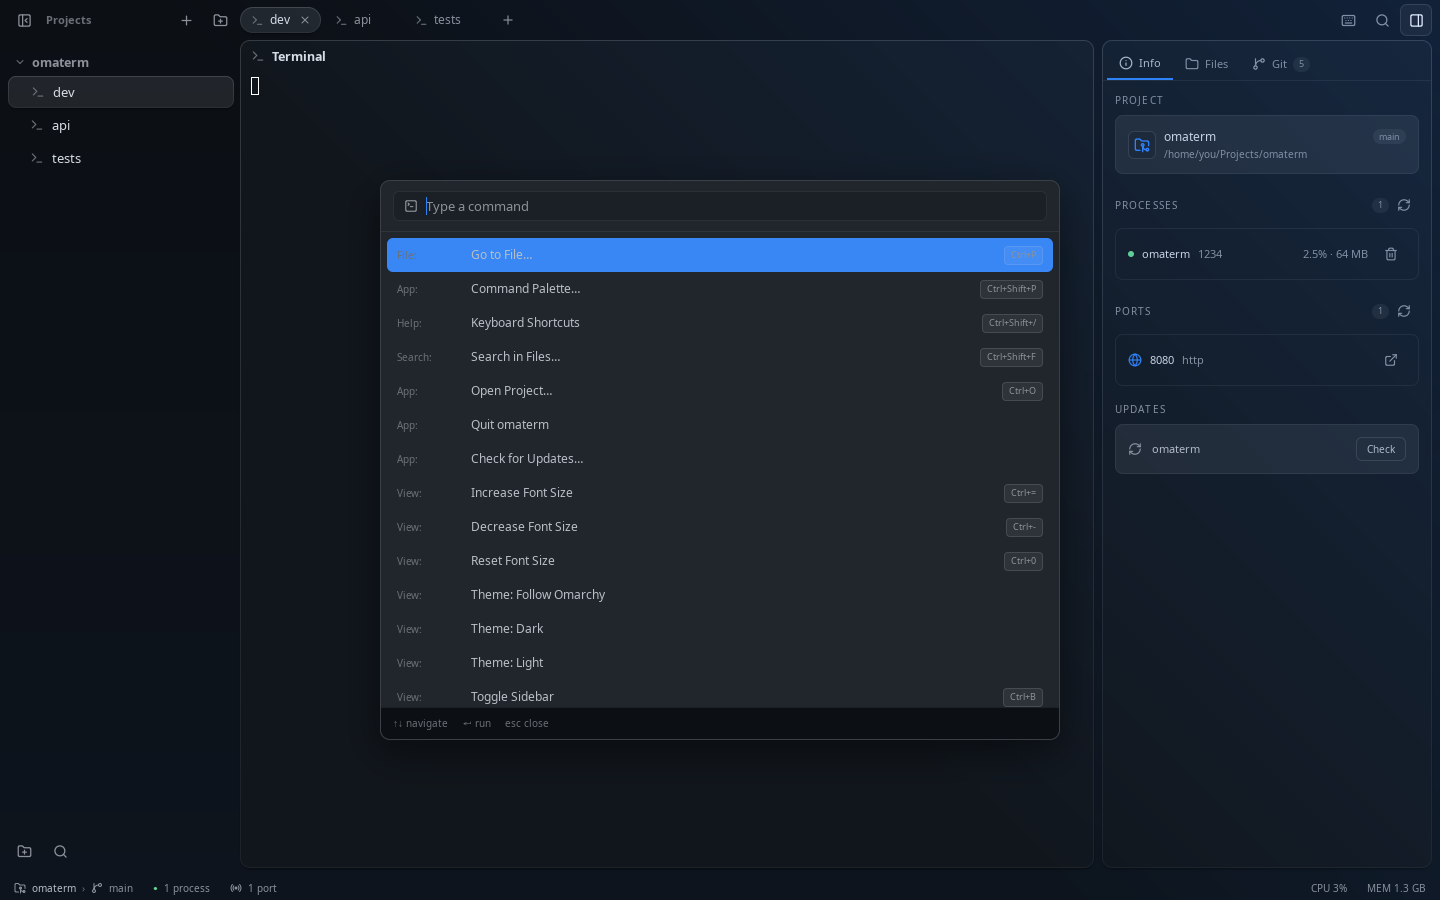
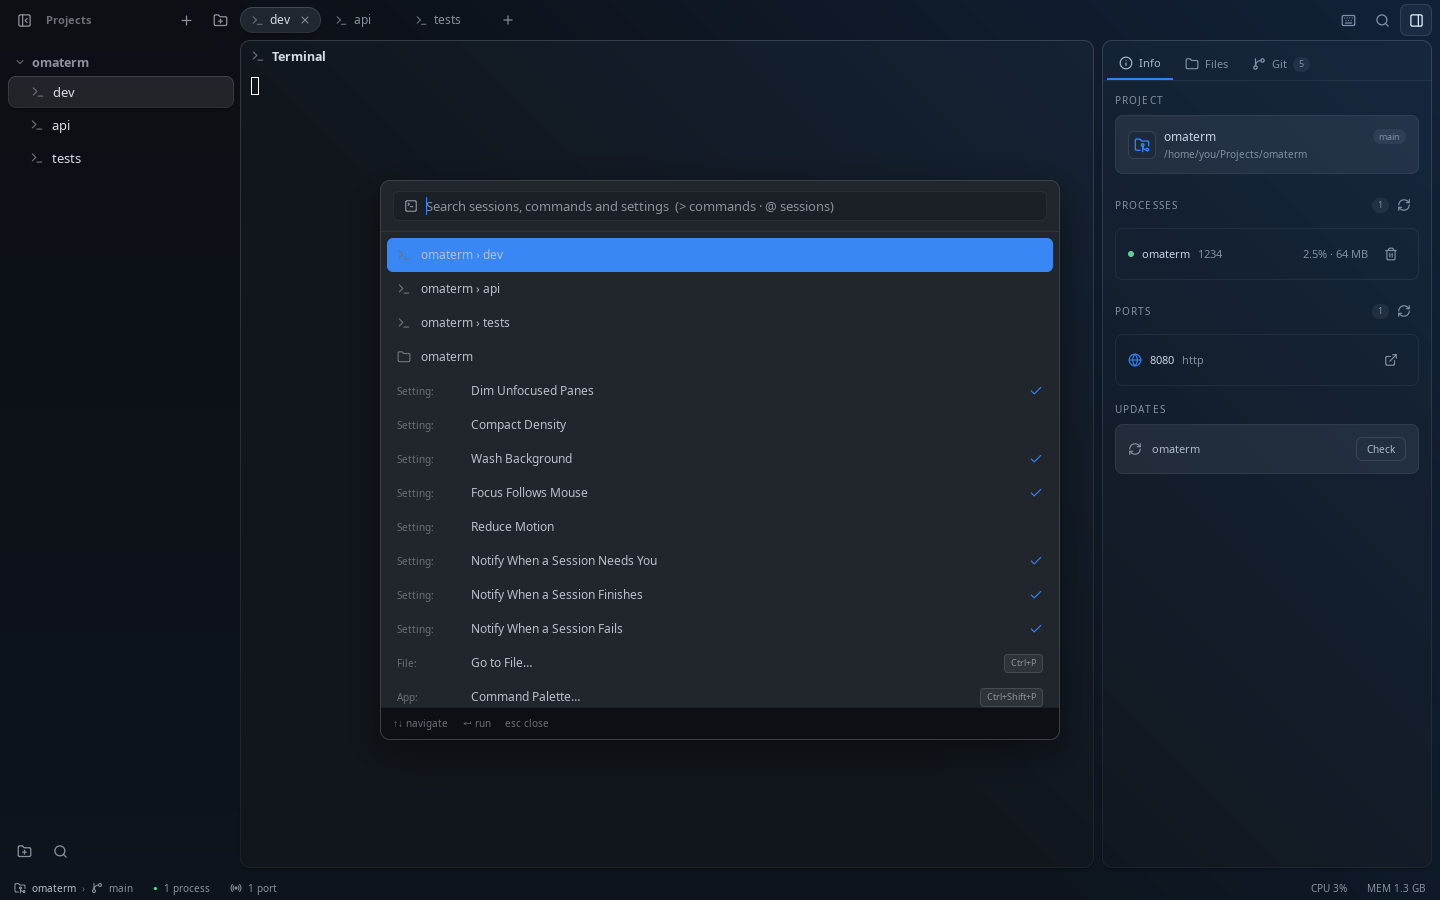
Find sessions and settings in the command palette, and use Omarchy's font
Ctrl+Shift+P now finds sessions across projects, with the ones needing
you first, projects, and settings to toggle (dim unfocused panes, compact
density, the wash, focus following the mouse, reduced motion and the
notifications), besides commands. "> " keeps to commands, "@" to
sessions. Terminals use the font Omarchy's font picker sets for Ghostty.

diff --git a/overlays.go b/overlays.go
@@ -2,6 +2,7 @@ package main
 
 import (
 	"context"
+	"slices"
 	"sort"
 	"strings"
 
@@ -9,6 +10,7 @@ import (
 	"github.com/egoist/mygo/ui"
 	"github.com/egoist/mygo/ui/editor"
 
+	"omaterm/internal/session"
 	"omaterm/service"
 )
 
@@ -461,25 +463,152 @@ type paletteEntry struct {
 	Command
 	Score   float64
 	Indices []int
+	// Info is a session entry's status, shown as its icon; On a setting's
+	// state, shown as a check.
+	Info    *session.Info
+	Setting bool
+	On      bool
 }
 
-func (a *appState) paletteCommands() []paletteEntry {
-	titles := make([]string, len(commandRegistry))
-	for i, cmd := range commandRegistry {
-		titles[i] = cmd.Category + ": " + cmd.Title
+// paletteSources are what the palette finds besides commands: sessions of
+// every project (those needing you first), projects, and settings.
+func (a *appState) paletteSources() []paletteEntry {
+	var out []paletteEntry
+	type sess struct {
+		e paletteEntry
+		u int
 	}
-	matches := service.FuzzyFilter(titles, a.cmdQuery, 100)
-	out := make([]paletteEntry, 0, len(matches))
-	for _, m := range matches {
-		// Find the command by title index.
-		for i, cmd := range commandRegistry {
-			if titles[i] == m.Value {
-				out = append(out, paletteEntry{Command: cmd, Score: m.Score, Indices: m.Indices})
-				break
+	var ss []sess
+	for pi, p := range a.projects {
+		for _, t := range a.projectTabs(p.ID) {
+			if t.Kind != tabTerminal {
+				continue
 			}
+			info, _ := a.sessionInfo(t)
+			pi, id := pi, t.ID
+			e := paletteEntry{Command: Command{ID: "session:" + t.ID, Category: "Session",
+				Title: p.Name + " › " + a.sessionName(t, info),
+				Run:   func(a *appState, c *ui.Context) { a.focusSession(pi, id) }}}
+			e.Info = &info
+			u := 0
+			switch statusState(info) {
+			case iconWaiting:
+				u = 3
+			case iconFailed:
+				u = 2
+			case iconDone:
+				u = 1
+			}
+			ss = append(ss, sess{e, u})
 		}
 	}
+	slices.SortStableFunc(ss, func(x, y sess) int { return y.u - x.u })
+	for _, s := range ss {
+		out = append(out, s.e)
+	}
+	for pi, p := range a.projects {
+		pi := pi
+		out = append(out, paletteEntry{Command: Command{ID: "project:" + p.ID, Category: "Project", Title: p.Name,
+			Run: func(a *appState, c *ui.Context) { a.switchProject(pi) }}})
+	}
+	toggle := func(id, title string, on bool, set func(*Settings)) {
+		out = append(out, paletteEntry{Setting: true, On: on, Command: Command{ID: "setting:" + id, Category: "Setting", Title: title,
+			Run: func(a *appState, c *ui.Context) { set(&a.settings); a.applySettings() }}})
+	}
+	st := a.settings
+	toggle("dim", "Dim Unfocused Panes", st.DimUnfocused, func(s *Settings) { s.DimUnfocused = !s.DimUnfocused })
+	toggle("compact", "Compact Density", st.Density == "compact", func(s *Settings) {
+		s.Density = map[bool]string{true: "comfortable", false: "compact"}[s.Density == "compact"]
+	})
+	toggle("wash", "Wash Background", st.Background != "plain", func(s *Settings) {
+		s.Background = map[bool]string{true: "plain", false: "wash"}[s.Background != "plain"]
+	})
+	toggle("focusmouse", "Focus Follows Mouse", st.FocusFollowsMouse, func(s *Settings) { s.FocusFollowsMouse = !s.FocusFollowsMouse })
+	toggle("motion", "Reduce Motion", st.ReduceMotion, func(s *Settings) { s.ReduceMotion = !s.ReduceMotion })
+	toggle("notify-waiting", "Notify When a Session Needs You", st.Notify.Waiting, func(s *Settings) { s.Notify.Waiting = !s.Notify.Waiting })
+	toggle("notify-done", "Notify When a Session Finishes", st.Notify.Done, func(s *Settings) { s.Notify.Done = !s.Notify.Done })
+	toggle("notify-error", "Notify When a Session Fails", st.Notify.Error, func(s *Settings) { s.Notify.Error = !s.Notify.Error })
 	return out
+}
+
+// paletteCommands finds what the query asks for: "> " limits it to
+// commands, "@" to sessions. With no query, sessions come first, those
+// needing you at the top.
+func (a *appState) paletteCommands() []paletteEntry {
+	q := strings.TrimSpace(a.cmdQuery)
+	onlyCmds, onlySessions := strings.HasPrefix(q, ">"), strings.HasPrefix(q, "@")
+	q = strings.TrimSpace(strings.TrimLeft(q, ">@"))
+	var pool []paletteEntry
+	if !onlyCmds {
+		for _, e := range a.paletteSources() {
+			if onlySessions && e.Category != "Session" {
+				continue
+			}
+			pool = append(pool, e)
+		}
+	}
+	if !onlySessions {
+		for _, cmd := range commandRegistry {
+			pool = append(pool, paletteEntry{Command: cmd})
+		}
+	}
+	titles := make([]string, len(pool))
+	index := map[string][]int{}
+	for i, e := range pool {
+		titles[i] = e.Category + ": " + e.Title
+		index[titles[i]] = append(index[titles[i]], i)
+	}
+	matches := service.FuzzyFilter(titles, q, 200)
+	out := make([]paletteEntry, 0, len(matches))
+	used := map[int]bool{}
+	for _, m := range matches {
+		for _, i := range index[m.Value] {
+			if used[i] {
+				continue
+			}
+			used[i] = true
+			e := pool[i]
+			e.Score, e.Indices = m.Score, m.Indices
+			if e.Category == "Session" && len(q) <= 3 {
+				e.Score += 0.2
+			}
+			out = append(out, e)
+		}
+	}
+	if q == "" {
+		// Keep the pool's order: sessions, projects, settings, commands.
+		slices.SortStableFunc(out, func(x, y paletteEntry) int { return idx(pool, x.ID) - idx(pool, y.ID) })
+	} else {
+		slices.SortStableFunc(out, func(x, y paletteEntry) int {
+			switch {
+			case x.Score > y.Score:
+				return -1
+			case x.Score < y.Score:
+				return 1
+			}
+			return 0
+		})
+	}
+	return out
+}
+
+func idx(pool []paletteEntry, id string) int {
+	for i, e := range pool {
+		if e.ID == id {
+			return i
+		}
+	}
+	return len(pool)
+}
+
+// applySettings takes the changed settings into effect and keeps them.
+func (a *appState) applySettings() {
+	a.panes.Each(func(p *session.Pane) {
+		if t := p.Term(); t != nil {
+			t.SetMinimumContrast(a.minimumContrast())
+		}
+	})
+	a.saveSettings()
 }
 
 func (a *appState) commandPaletteBody(c *ui.Context) {
@@ -501,7 +630,7 @@ func (a *appState) commandPaletteBody(c *ui.Context) {
 	ui.Box(c).Padding(10, 12).BorderWidth(0, 0, 1, 0).BorderColor(pal.Border).Children(func() {
 		ui.Row(c).Height(30).Radius(6).Border(1, pal.Border).Background(pal.Input).AlignItems(ui.Center).Padding(0, 10).Gap(8).Children(func() {
 			ui.Icon(c, iconSquareTerminal).Width(14).Height(14).TextColor(pal.TextMuted)
-			ti := ui.TextInputBase(c, &a.cmdQuery).Placeholder("Type a command").FontSize(13).Grow(1)
+			ti := ui.TextInputBase(c, &a.cmdQuery).Placeholder("Search sessions, commands and settings  (> commands · @ sessions)").FontSize(13).Grow(1)
 			if ti.Changed() {
 				a.cmdSelected = 0
 			}
@@ -566,7 +695,18 @@ func (a *appState) commandRow(c *ui.Context, e paletteEntry, selected bool) {
 		row.Background(pal.Hover)
 	}
 	row.Children(func() {
-		ui.Text(c, e.Category+":").FontSize(10).TextColor(pal.TextFaint).Width(64).SingleLine().Shrink(0)
+		switch {
+		case e.Info != nil:
+			if statusState(*e.Info) != iconNone {
+				a.statusIcon(c, *e.Info, 14)
+			} else {
+				ui.Icon(c, programIcon(firstNonEmpty(e.Info.Agent, e.Info.Process))).Size(14, 14).TextColor(pal.TextFaint)
+			}
+		case e.Category == "Project":
+			ui.Icon(c, iconFolder).Size(14, 14).TextColor(pal.TextFaint)
+		default:
+			ui.Text(c, e.Category+":").FontSize(10).TextColor(pal.TextFaint).Width(64).SingleLine().Shrink(0)
+		}
 		titleCol := pal.TextSoft
 		if !enabled {
 			titleCol = pal.TextFaint
@@ -574,7 +714,15 @@ func (a *appState) commandRow(c *ui.Context, e paletteEntry, selected bool) {
 		ui.Text(c, e.Title).FontSize(12).TextColor(titleCol).SingleLine().
 			Shrink(1).MinWidth(0).Ellipsis("…")
 		ui.Spacer(c)
-		if keys := keyPrimary(e.ID); keys != "" {
+		if e.Setting {
+			if e.On {
+				ui.Icon(c, iconCheck).Size(14, 14).TextColor(pal.Accent)
+			}
+		} else if e.Info != nil {
+			if text, _, fg := statusWords(*e.Info, nowFunc()); text != "" {
+				ui.Text(c, text).FontSize(11.5).TextColor(fg).SingleLine().Shrink(0)
+			}
+		} else if keys := keyPrimary(e.ID); keys != "" {
 			keyChip(c, keys)
 		}
 	})

diff --git a/fonts.go b/fonts.go
@@ -1,0 +1,37 @@
+package main
+
+import (
+	"bufio"
+	"os"
+	"path/filepath"
+	"strings"
+)
+
+// termFontFamily is the terminals' and editors' font: the one Omarchy's
+// font picker writes to Ghostty's config, so every terminal on the machine
+// shares it, falling back to JetBrains Mono.
+func termFontFamily() string {
+	const fallback = "JetBrainsMono Nerd Font, JetBrains Mono, monospace"
+	dir := os.Getenv("XDG_CONFIG_HOME")
+	if dir == "" {
+		home, _ := os.UserHomeDir()
+		dir = filepath.Join(home, ".config")
+	}
+	f, err := os.Open(filepath.Join(dir, "ghostty", "config"))
+	if err != nil {
+		return fallback
+	}
+	defer f.Close()
+	family := ""
+	sc := bufio.NewScanner(f)
+	for sc.Scan() {
+		k, v, ok := strings.Cut(sc.Text(), "=")
+		if ok && strings.TrimSpace(k) == "font-family" {
+			family = strings.Trim(strings.TrimSpace(v), `"`)
+		}
+	}
+	if family == "" {
+		return fallback
+	}
+	return family + ", " + fallback
+}

diff --git a/ui_test.go b/ui_test.go
@@ -109,3 +109,23 @@ func TestPaneTitle(t *testing.T) {
 		t.Errorf("program title: %q", got)
 	}
 }
+
+// The palette puts the session needing you first, and "> " keeps to
+// commands.
+func TestPaletteRanking(t *testing.T) {
+	a := twoProjectApp(t)
+	defer stopTermPanes(a)
+	a.newTerminalTabReal()
+	waiting := a.tabs[1]
+	a.status[waiting.Split.termIDs()[0]] = session.Info{ID: waiting.Split.termIDs()[0], Session: waiting.ID, Status: session.Waiting}
+	got := a.paletteCommands()
+	if len(got) == 0 || got[0].ID != "session:"+waiting.ID {
+		t.Fatalf("first entry %+v", got[0].Command)
+	}
+	a.cmdQuery = "> zoom"
+	for _, e := range a.paletteCommands() {
+		if e.Category == "Session" || e.Category == "Setting" {
+			t.Fatalf("> query found %s", e.ID)
+		}
+	}
+}

diff --git a/state.go b/state.go
@@ -268,6 +268,8 @@ type appState struct {
 	// notified is when each session last notified.
 	notified map[string]time.Time
 	title    string
+	// termFont is the terminals' font family (fonts.go).
+	termFont string
 	// lastViewed is the session last told to the panes as viewed.
 	lastViewed string
 
@@ -356,6 +358,7 @@ func newApp() *appState {
 		settings:         loadSettings(),
 	}
 	a.hookPanes()
+	a.termFont = termFontFamily()
 	a.loadUIPrefs()
 	a.themeMode = a.settings.Theme
 	a.applyTheme(themeSource(a.themeMode))

diff --git a/terminal.go b/terminal.go
@@ -165,7 +165,7 @@ func (a *appState) term(id string) *terminal.Terminal {
 	p, err := a.panes.Start(session.StartOptions{
 		ID: id, Session: sessionID, Dir: dir,
 		Command: a.termCmd, Exec: len(a.termCmd) > 0,
-		Font:            terminal.Font{Size: a.fontSize},
+		Font:            terminal.Font{Family: a.termFont, Size: a.fontSize},
 		Theme:           omaTermTheme(),
 		MinimumContrast: a.minimumContrast(),
 		Padding:         terminal.Padding{X: 10, Y: 6},

diff --git a/commands.go b/commands.go
@@ -267,7 +267,7 @@ func (a *appState) zoomFont(d int) {
 func (a *appState) applyFontSize() {
 	a.panes.Each(func(p *session.Pane) {
 		if t := p.Term(); t != nil {
-			t.SetFont(terminal.Font{Size: a.fontSize})
+			t.SetFont(terminal.Font{Family: a.termFont, Size: a.fontSize})
 		}
 	})
 	for _, doc := range a.editors {
